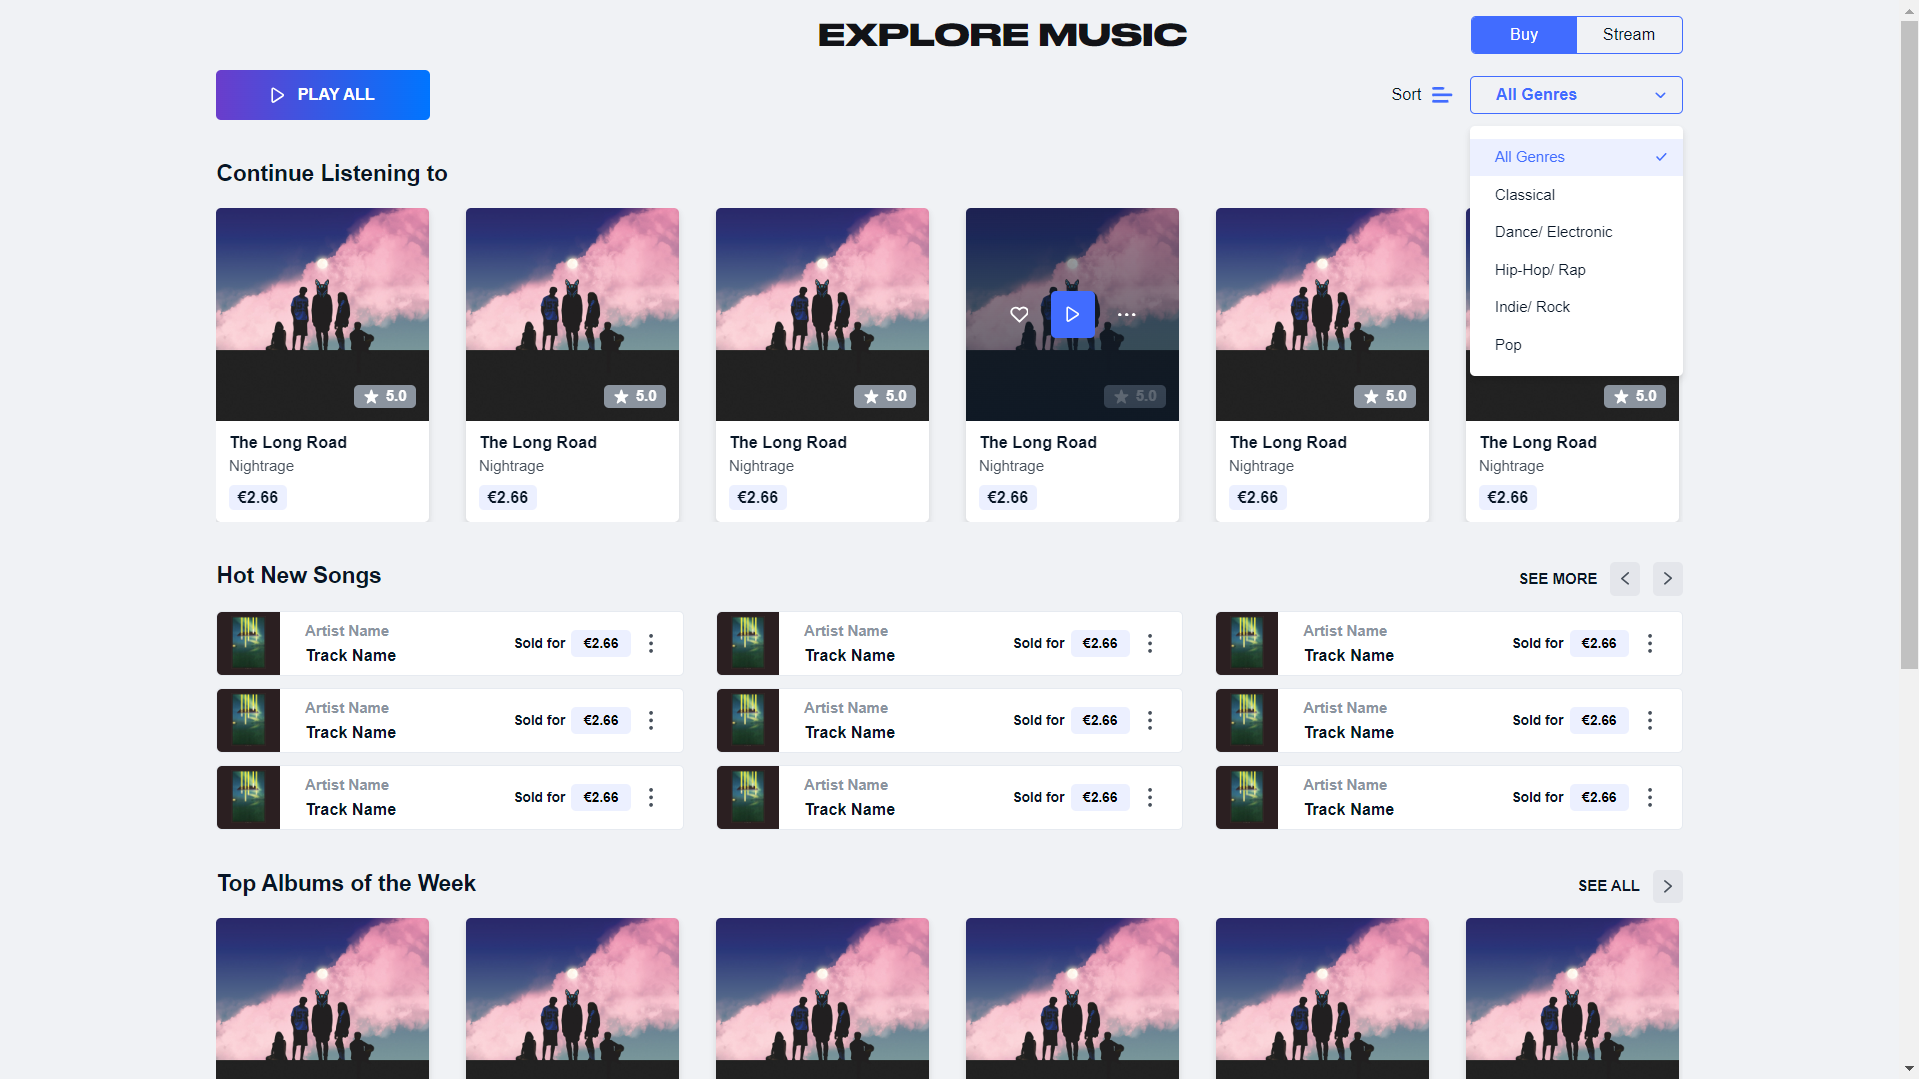
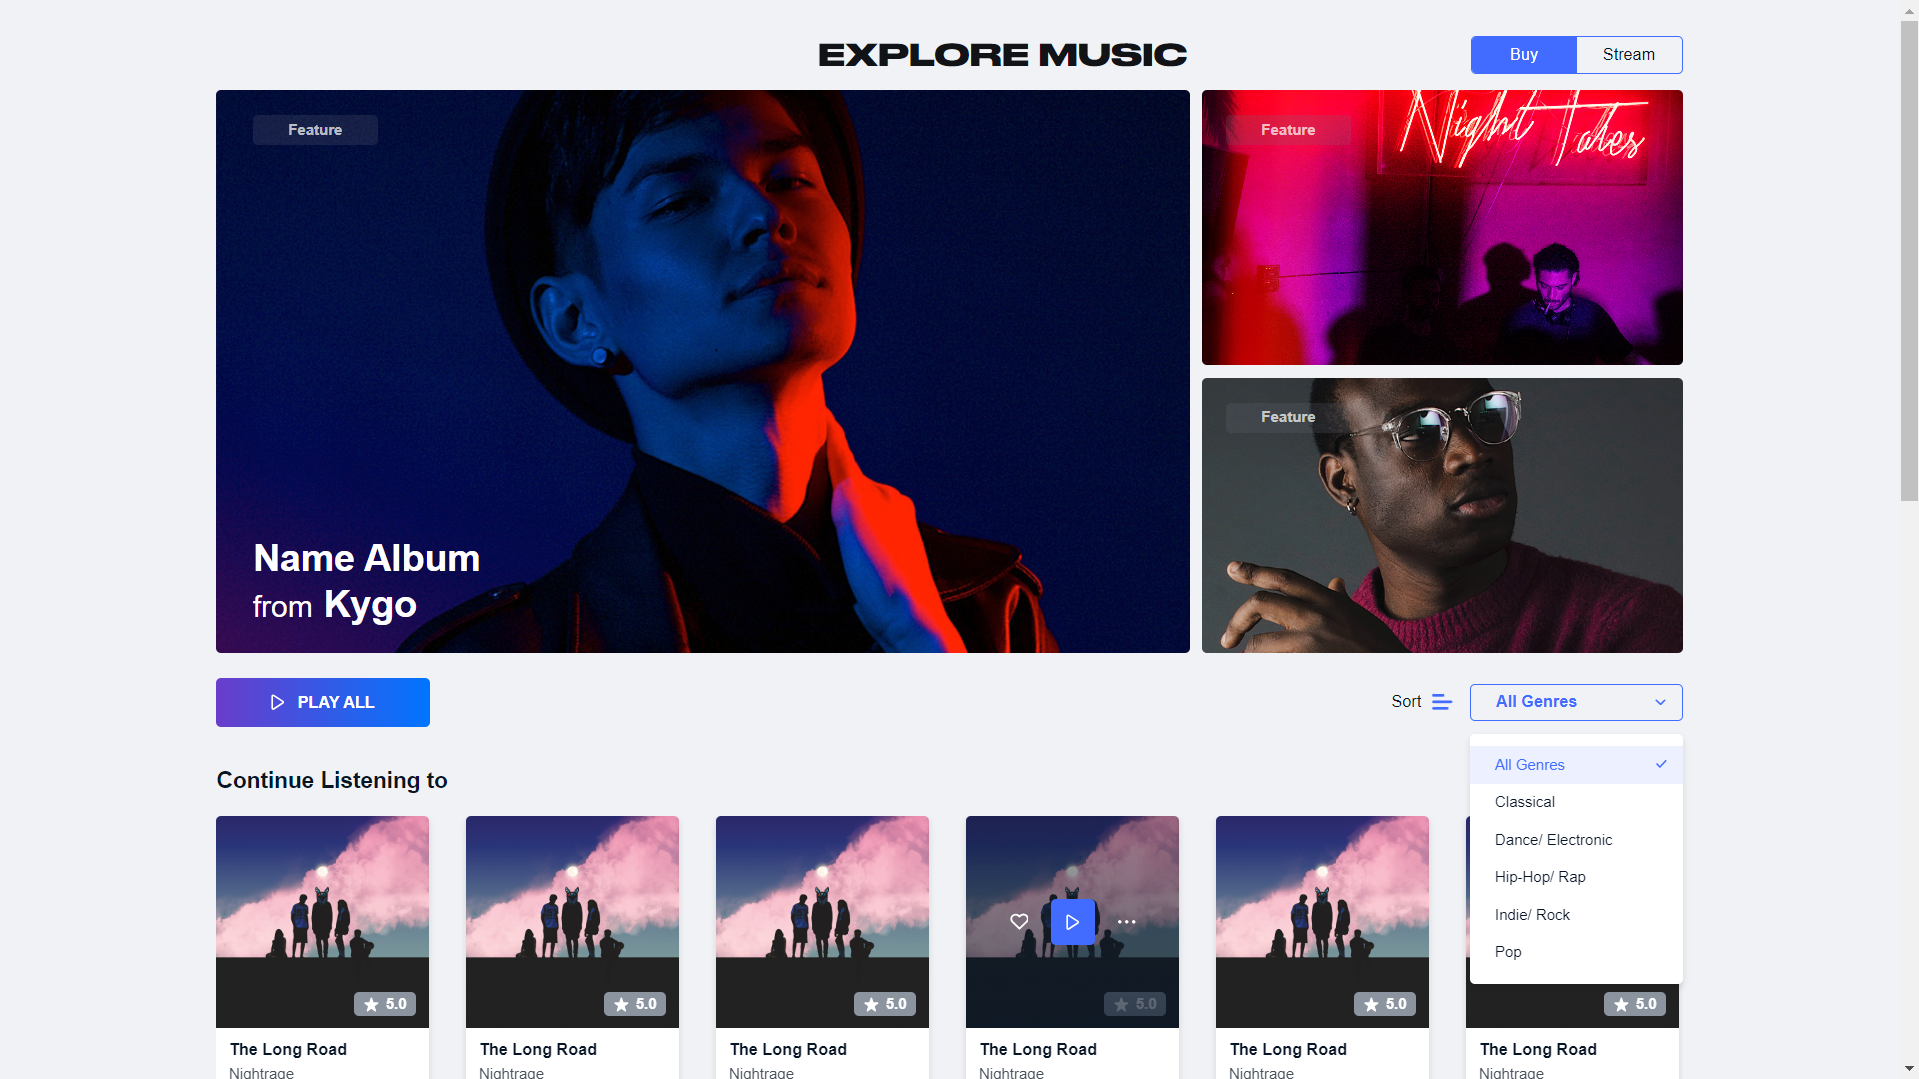
Added featured section

diff --git a/src/components/home-page/TopSection.vue b/src/components/home-page/TopSection.vue
@@ -9,15 +9,83 @@
       <Tab v-model="selectedTab" :tabs="tabOptions" />
     </div>
   </div>
+
+  <div class="grid sm:grid-cols-3 grid-cols-1 gap-[10px] sm:pb-5 pb-4">
+    <!-- Main featured album -->
+    <div class="relative sm:col-span-2 sm:row-span-2 sm:h-[450px] h-[160px]">
+      <img
+        class="rounded object-cover w-full h-full"
+        :src="featured[0]?.image"
+        :alt="featured[0]?.name"
+      />
+      <div
+        class="absolute inset-0 rounded text-white flex flex-col justify-end sm:justify-between sm:pl-[29px] pl-[21px] py-5"
+      >
+        <FeatureLabel />
+
+        <div>
+          <div class="sm:text-[30px] text-[20px] sm:leading-[36.63px] leading-[24.42px] font-bold">
+            <div>{{ featured[0]?.name }}</div>
+            <div class="hidden sm:block">
+              <span class="text-[24px] leading-[28.63px] font-normal">from</span>
+              {{ featured[0]?.artist }}
+            </div>
+          </div>
+        </div>
+      </div>
+    </div>
+
+    <!-- Secondary featured albums -->
+    <div
+      v-for="item in featured.slice(1, 3)"
+      :key="item.id"
+      class="relative sm:h-[220px] h-[160px]"
+    >
+      <img class="rounded object-cover w-full h-full" :src="item?.image" :alt="item?.name" />
+      <div
+        class="absolute inset-0 rounded text-white flex flex-col sm:justify-normal justify-end sm:pl-[19px] pl-[21px] py-5"
+      >
+        <FeatureLabel />
+
+        <div>
+          <div class="sm:hidden text-[20px] leading-[24.42px] font-bold">
+            {{ item?.name }}
+          </div>
+        </div>
+      </div>
+    </div>
+  </div>
 </template>
 
 <script setup>
 import { ref } from 'vue'
 import Tab from '@/components/common/Tab.vue'
+import FeatureLabel from '@/components/home-page/common/FeatureLabel.vue'
 
 const selectedTab = ref('buy')
 const tabOptions = [
   { label: 'Buy', value: 'buy' },
   { label: 'Stream', value: 'stream' }
 ]
+
+const featured = ref([
+  {
+    id: '1',
+    name: 'Name Album',
+    image: '/src/assets/feature_sample_img_1.png',
+    artist: 'Kygo'
+  },
+  {
+    id: '2',
+    name: 'Name',
+    image: '/src/assets/feature_sample_img_2.png',
+    artist: 'Artist 2'
+  },
+  {
+    id: '3',
+    name: 'Starboy by The Week...',
+    image: '/src/assets/feature_sample_img_3.png',
+    artist: 'Artist 3'
+  }
+])
 </script>

diff --git a/src/components/home-page/common/FeatureLabel.vue b/src/components/home-page/common/FeatureLabel.vue
@@ -1,0 +1,11 @@
+<template>
+  <div
+    class="text-white text-[12px] font-bold leading-[14.65px] h-6 w-[100px] bg-[#686C7B] bg-opacity-20 text-opacity-70 hidden sm:flex justify-center items-center rounded"
+  >
+    Feature
+  </div>
+</template>
+
+<script setup></script>
+
+<style lang="scss" scoped></style>
